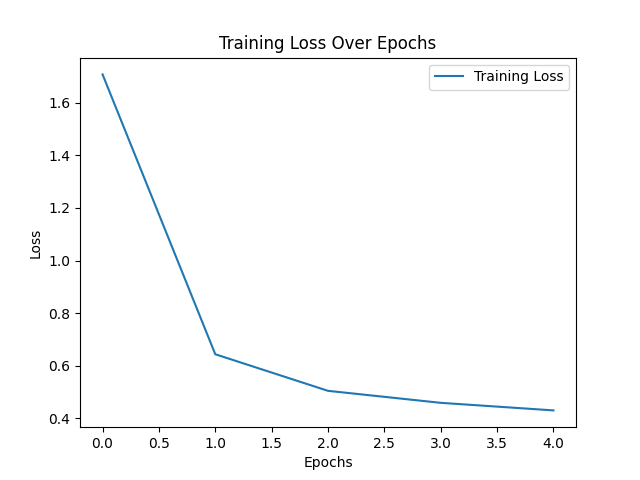
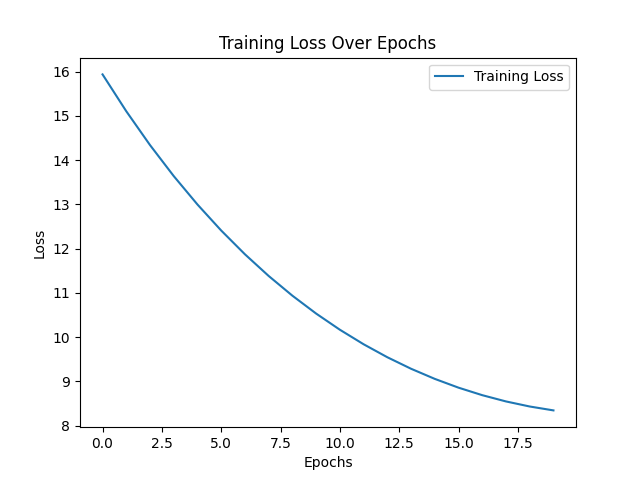
reimplment manual train

diff --git a/main.py b/main.py
@@ -105,6 +105,50 @@ def load_data(train_split, val_split):
     )
 
 
+def train_manual(train_set, val_set, epochs, lr):
+    n_params = len(train_set[0][0])
+
+    weights = np.random.normal(-1, 1, n_params)
+    bias = 1
+
+    train_loss = []
+    # val_loss = []
+
+    for epoch in tqdm(range(epochs), desc="Training", unit="epoch", leave=False):
+        running_loss = 0.0
+        for x, y in train_set:
+            # make linear prediction
+            y_pred = 0.0
+            for i in range(n_params):
+                y_pred += weights[i] * x[i]
+
+            y_pred = y_pred + bias
+            # calculate MSE
+            loss = (y_pred - y) ** 2
+            running_loss += loss
+
+            # update weights
+            for i in range(n_params):
+                weight_grad = x[i] * 2 * (y_pred - y)
+                weights[i] = weights[i] - lr * weight_grad
+
+            # update bias
+            bias_grad = 2 * (y - y_pred)
+            bias = bias - lr * bias_grad
+
+        train_loss.append(running_loss / len(train_set))
+
+        # make sample prediction
+        x, y = train_set[0]
+        y_pred = 0.0
+        for i in range(n_params):
+            y_pred += weights[i] * x[i]
+        y_pred += y_pred + bias
+        print(f"Prediction: {y_pred}, True Value: {y}")
+
+    return train_loss
+
+
 def train(model, loss_fn, train_set, val_set, epochs):
     train_loss = []
     # val_loss = []
@@ -152,9 +196,11 @@ def main():
     model = LinearRegression(n_params=n_params, lr=cfg.lr)
     loss_fn = MSE()
 
-    # train_loss = train_manual(train_set, val_set, cfg.epochs, cfg.lr)
+    train_loss = train_manual(train_set, val_set, cfg.epochs, cfg.lr)
+    
+    
 
-    train_loss = train(model, loss_fn, train_set, val_set, cfg.epochs)
+    # train_loss = train(model, loss_fn, train_set, val_set, cfg.epochs)
     print("train loss", train_loss[-1])
     plot_results(train_loss)
 

diff --git a/main2.py b/main2.py
@@ -1,45 +1,2 @@
 
-def train_manual(train_set, val_set, epochs, lr):
-    n_params = len(train_set[0][0])
-
-    weights = np.random.normal(-1, 1, n_params)
-    bias = 1
-
-    train_loss = []
-    # val_loss = []
-
-    for epoch in tqdm(range(epochs), desc="Training", unit="epoch", leave=False):
-        running_loss = 0.0
-        for x, y in train_set[:100]:
-            # make linear prediction
-            y_pred = 0.0
-            for i in range(n_params):
-                y_pred += weights[i] * x[i]
-
-            y_pred = y_pred + bias
-            # calculate MSE
-            loss = (y_pred - y) ** 2
-            running_loss += loss
-
-            # update weights
-            for i in range(n_params):
-                weight_grad = x[i] * 2 * (y_pred - y)
-                weights[i] = weights[i] - lr * weight_grad
-
-            # update bias
-            bias_grad = 2 * (y - y_pred)
-            bias = bias - lr * bias_grad
-
-        train_loss.append(running_loss / len(train_set))
-
-        # make sample prediction
-        x, y = train_set[0]
-        y_pred = 0.0
-        for i in range(n_params):
-            y_pred += weights[i] * x[i]
-        y_pred += y_pred + bias
-        print(f"Prediction: {y_pred}, True Value: {y}")
-
-    return train_loss
-
  

diff --git a/config.py b/config.py
@@ -11,5 +11,5 @@ cfg.val_split = 0.15
 
 
 # training
-cfg.lr = 0.0001
-cfg.epochs = 5
+cfg.lr = 0.00001
+cfg.epochs = 20
